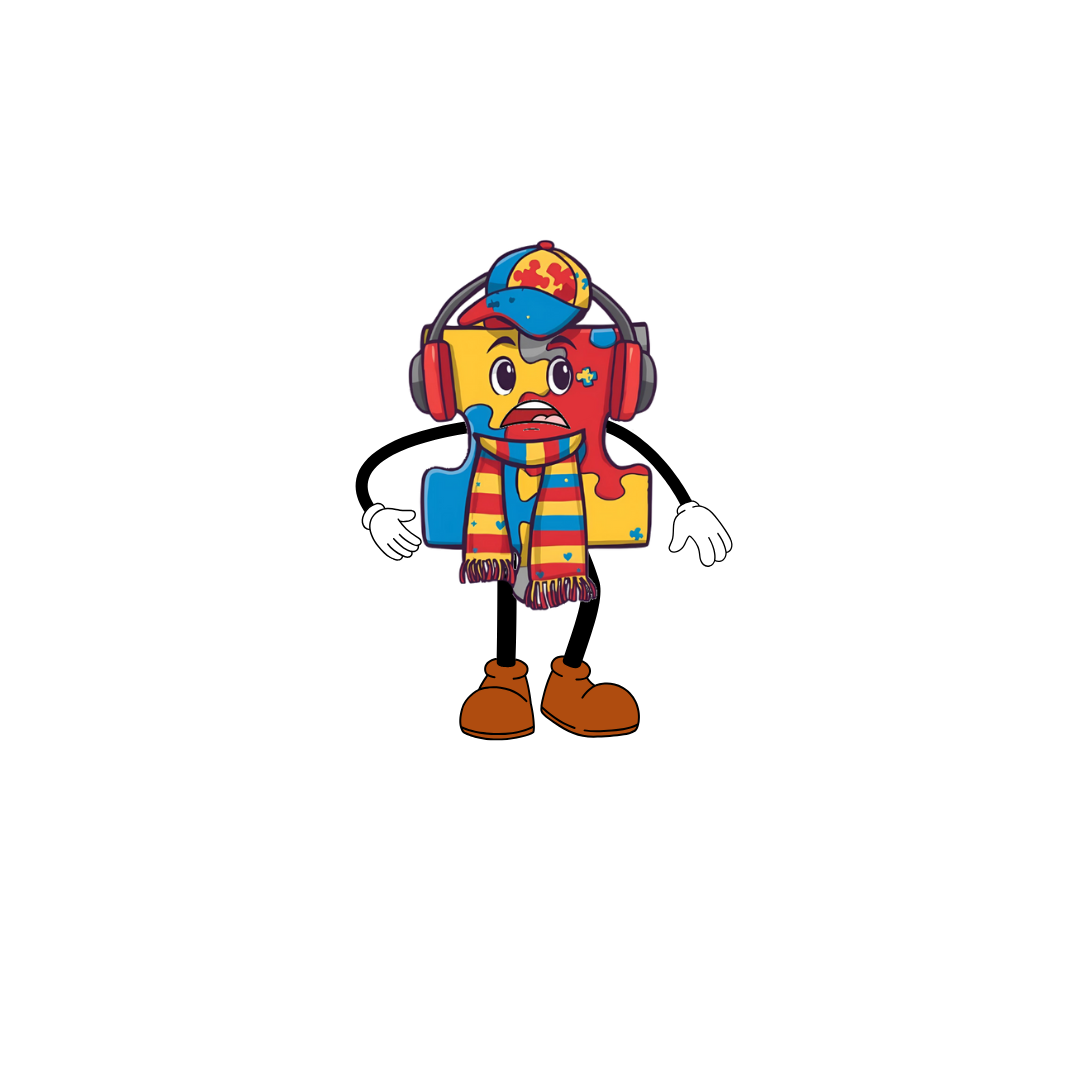
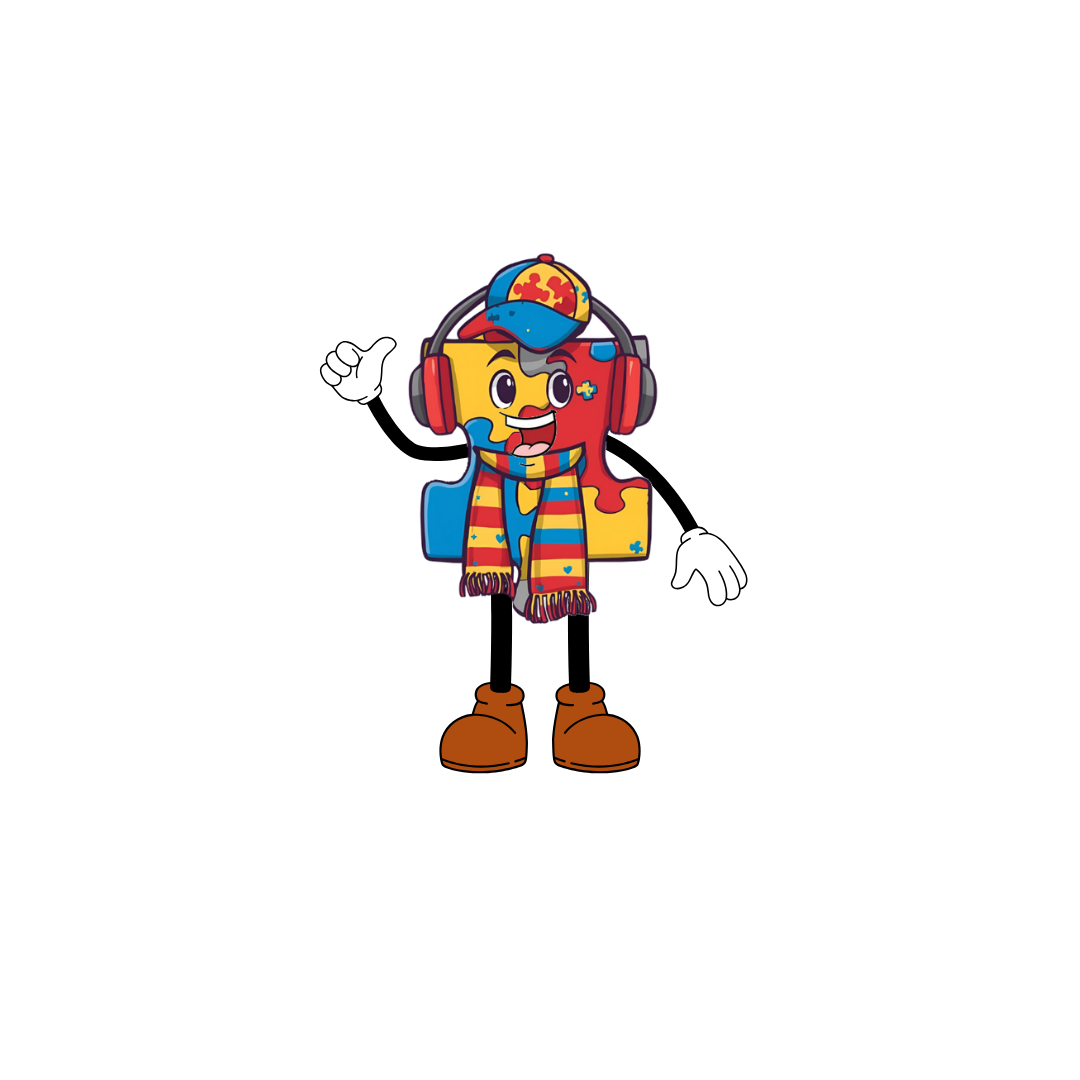
update boneco

Changed region(s): [[0.3056, 0.2139, 0.7028, 0.7333]]

diff --git a/laravel/projetoTCC/public/Js/cores.js b/laravel/projetoTCC/public/Js/cores.js
@@ -103,7 +103,7 @@ assistant.addEventListener('click', () => {
             correctButton.classList.add('highlight-correct');
             setTimeout(() => {
                 correctButton.classList.remove('highlight-correct');
-            }, 3000);
+            }, 5000);
         }
     } else {
         hideAssistantMessage();
@@ -126,7 +126,7 @@ function showMessage(type, text) {
         playerWin();
         
         // Mostrar assistente feliz
-        assistantImg.src = "/imagens/3.png";
+        assistantImg.src = "/imagens/1.png";
         showAssistantMessage("Parabéns! Você acertou! 🎉", 5000);
     } else {
         // Mostrar mensagem de erro com boneco
@@ -161,7 +161,7 @@ function playerLose() {
     playSound("/sons/erro.mp3");
 }
 
-function showAssistantMessage(text, duration = 3000) {
+function showAssistantMessage(text, duration = 5000) {
     // Parar qualquer animação anterior
     if (currentTextAnimation) {
         clearInterval(currentTextAnimation);
@@ -186,8 +186,8 @@ function showAssistantMessage(text, duration = 3000) {
     let spriteIndex = 1;
     assistantSpriteInterval = setInterval(() => {
         assistantImg.src = `/imagens/${spriteIndex}.png`;
-        spriteIndex = spriteIndex % 5 + 1; // Cicla entre 1.png e 5.png
-    }, 500);
+        spriteIndex = spriteIndex % 3 + 1; 
+     }, 200);
     
     // Animação de digitação
     let charIndex = 0;

diff --git a/laravel/projetoTCC/public/css/cores.css b/laravel/projetoTCC/public/css/cores.css
@@ -223,7 +223,6 @@
     }
 }
 
-/* MENSAGENS MELHORADAS */
 .message {
     position: fixed;
     top: 0;
@@ -366,11 +365,11 @@
     text-shadow: 1px 1px 2px rgba(0,0,0,0.1);
 }
 
-/* MELHORIAS NO ASSISTENTE - SEMPRE VISÍVEL */
+
 .assistant {
     position: fixed;
-    bottom: 20px;
-    right: 50px;
+    bottom: 200px;
+    right: 120px;
     width: 220px;
     height: 220px;
     cursor: pointer;
@@ -383,18 +382,10 @@
 }
 
 .assistant img {
-    width: 100%;
-    height: 100%;
-    object-fit: contain;
+    width: 150%;
+    height: 150%;
     border-radius: 50%;
-    box-shadow: 0 4px 15px rgba(0, 0, 0, 0.2);
-    border: 3px solid #4c5baf;
     transition: all 0.3s ease;
-}
-
-.assistant:hover img {
-    box-shadow: 0 6px 20px rgba(0, 0, 0, 0.3);
-    border-color: #4CAF50;
 }
 
 .assistant.talking img {
@@ -415,6 +406,7 @@
     border-radius: 20px;
     box-shadow: 0 8px 20px rgba(0, 0, 0, 0.15);
     max-width: 250px;
+    bottom: 100px;
     opacity: 0;
     visibility: hidden;
     transition: all 0.3s ease;
